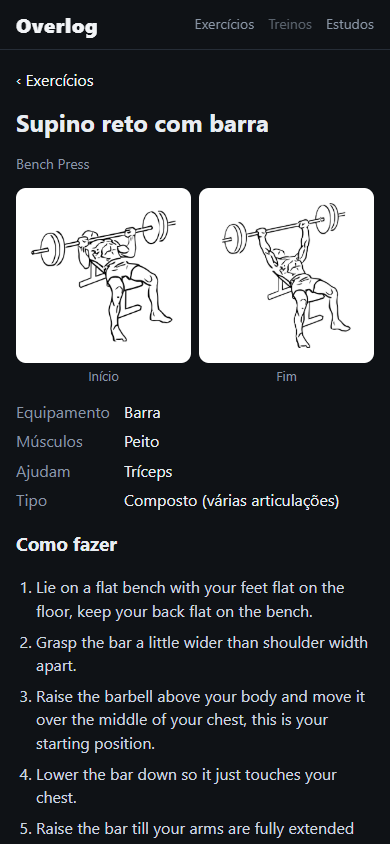
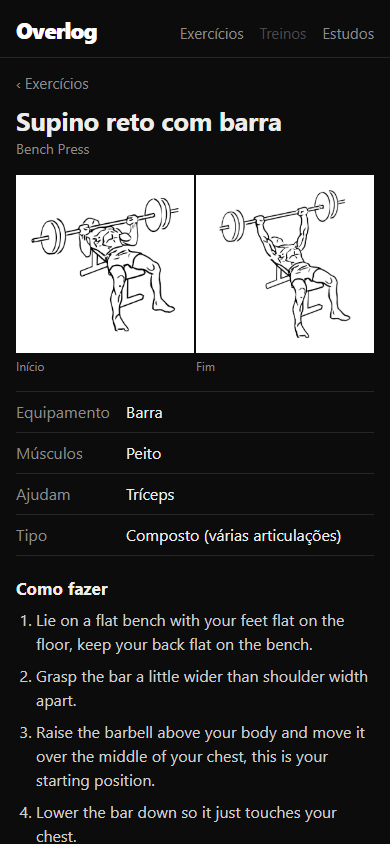
plainer look: lists with lines instead of cards, simpler texts and readme

diff --git a/src/index.css b/src/index.css
@@ -1,11 +1,9 @@
 :root {
-  --bg: #0f1216;
-  --card: #181d24;
-  --line: #262d37;
-  --text: #e8edf2;
-  --muted: #8a96a6;
-  --accent: #f2f4f7;
-  --accent-text: #0f1216;
+  --bg: #0c0c0c;
+  --line: #262626;
+  --text: #ededed;
+  --muted: #8c8c8c;
+  --strong: #ffffff;
   color-scheme: dark;
 }
 
@@ -15,81 +13,85 @@ body {
   margin: 0;
   background: var(--bg);
   color: var(--text);
-  font: 16px/1.45 system-ui, -apple-system, "Segoe UI", Roboto, sans-serif;
+  font: 16px/1.5 system-ui, -apple-system, "Segoe UI", Roboto, sans-serif;
   -webkit-tap-highlight-color: transparent;
 }
 
 a { color: inherit; }
 
-main { max-width: 720px; margin: 0 auto; padding: 12px 16px 48px; }
+main { max-width: 680px; margin: 0 auto; padding: 0 16px 40px; }
 
 .top {
   position: sticky; top: 0; z-index: 2;
-  display: flex; align-items: center; justify-content: space-between; gap: 12px;
-  padding: 10px 16px; background: rgba(15, 18, 22, 0.92); backdrop-filter: blur(8px);
-  border-bottom: 1px solid var(--line);
+  display: flex; align-items: baseline; justify-content: space-between; gap: 12px;
+  max-width: 680px; margin: 0 auto; padding: 14px 16px 10px;
+  background: var(--bg); border-bottom: 1px solid var(--line);
 }
-.logo { font-weight: 800; font-size: 20px; text-decoration: none; color: var(--accent); letter-spacing: 0.5px; }
-.top nav { display: flex; gap: 14px; font-size: 14px; }
+.logo { font-weight: 900; font-size: 22px; letter-spacing: -0.8px; text-decoration: none; color: var(--strong); }
+.top nav { display: flex; gap: 16px; font-size: 15px; }
 .top nav a { text-decoration: none; color: var(--muted); }
-.top nav a[aria-current] { color: var(--accent); font-weight: 600; box-shadow: inset 0 -2px 0 var(--accent); }
-.soon { color: var(--muted); opacity: 0.6; }
+.top nav a[aria-current] { color: var(--strong); }
+.soon { color: #4a4a4a; }
 
-.search { display: flex; gap: 8px; margin: 4px 0 10px; }
+.search { display: flex; gap: 8px; margin: 14px 0 6px; }
 .search input, .search select {
-  min-height: 44px; border-radius: 10px; border: 1px solid var(--line);
-  background: var(--card); color: var(--text); font: inherit; padding: 0 12px;
+  min-height: 44px; border: 0; border-bottom: 1px solid var(--line); border-radius: 0;
+  background: transparent; color: var(--text); font: inherit; padding: 0 2px;
 }
+.search input:focus, .search select:focus { border-bottom-color: var(--strong); outline: none; }
 .search input { flex: 1; min-width: 0; }
-.search select { max-width: 42%; }
+.search select { max-width: 42%; color: var(--muted); }
+.search select option { background: var(--bg); color: var(--text); }
 
-.chips { display: flex; gap: 8px; overflow-x: auto; padding-bottom: 6px; scrollbar-width: none; }
+/* equipment filter: plain words, the chosen one is white */
+.chips { display: flex; gap: 18px; overflow-x: auto; padding: 8px 0 10px; scrollbar-width: none; }
 .chip {
-  flex: none; min-height: 36px; padding: 0 14px; border-radius: 999px;
-  border: 1px solid var(--line); background: var(--card); color: var(--text); font: inherit; font-size: 14px;
+  flex: none; padding: 4px 0; border: 0; background: none; color: var(--muted);
+  font: inherit; font-size: 15px; cursor: pointer;
 }
-.chip.on { background: var(--accent); border-color: var(--accent); color: var(--accent-text); font-weight: 600; }
+.chip.on { color: var(--strong); font-weight: 700; }
 
 .muted { color: var(--muted); font-size: 14px; }
+.count { color: var(--muted); font-size: 13px; margin: 6px 0 0; }
 
 .list { list-style: none; margin: 0; padding: 0; }
 .item {
-  display: flex; gap: 12px; align-items: center; padding: 8px; margin-bottom: 8px;
-  background: var(--card); border: 1px solid var(--line); border-radius: 12px; text-decoration: none;
+  display: flex; gap: 14px; align-items: center; padding: 10px 0;
+  border-bottom: 1px solid var(--line); text-decoration: none;
 }
-.item img { width: 72px; height: 72px; object-fit: contain; border-radius: 8px; background: #fff; flex: none; }
+.item img { width: 64px; height: 64px; object-fit: contain; background: #fff; flex: none; }
 .item span { display: flex; flex-direction: column; min-width: 0; }
-.item strong { font-size: 16px; }
-.item small { color: var(--muted); font-size: 13px; }
-.item em { font-style: normal; color: var(--muted); font-size: 13px; margin-top: 2px; }
+.item strong { font-size: 16px; font-weight: 650; }
+.item small, .item em { color: var(--muted); font-size: 13px; font-style: normal; }
 
 .more {
-  width: 100%; min-height: 44px; border-radius: 10px; border: 1px solid var(--line);
-  background: transparent; color: var(--text); font: inherit;
+  width: 100%; min-height: 48px; margin-top: 8px; border: 0; border-bottom: 1px solid var(--line);
+  background: none; color: var(--text); font: inherit; cursor: pointer;
 }
 
-.detail h2 { margin: 8px 0 2px; font-size: 24px; }
-.back { display: inline-block; text-decoration: none; color: var(--accent); padding: 6px 0; }
-.photos { display: grid; grid-template-columns: 1fr 1fr; gap: 8px; margin: 14px 0; }
+.back { display: inline-block; text-decoration: none; color: var(--muted); padding: 14px 0 0; font-size: 15px; }
+.detail h2 { margin: 10px 0 0; font-size: 26px; line-height: 1.2; letter-spacing: -0.4px; }
+.detail .en { color: var(--muted); margin: 2px 0 0; font-size: 14px; }
+.photos { display: grid; grid-template-columns: 1fr 1fr; gap: 2px; margin: 16px 0; }
 .photos figure { margin: 0; }
-.photos img { width: 100%; aspect-ratio: 1; object-fit: contain; padding: 8px; border-radius: 10px; background: #fff; display: block; }
-.photos figcaption { color: var(--muted); font-size: 13px; text-align: center; margin-top: 4px; }
-.facts { display: grid; grid-template-columns: auto 1fr; gap: 6px 14px; margin: 0 0 16px; }
+.photos img { width: 100%; aspect-ratio: 1; object-fit: contain; padding: 8px; background: #fff; display: block; }
+.photos figcaption { color: var(--muted); font-size: 12px; margin-top: 4px; }
+.facts { display: grid; grid-template-columns: 110px 1fr; margin: 0 0 20px; border-top: 1px solid var(--line); }
+.facts dt, .facts dd { margin: 0; padding: 8px 0; border-bottom: 1px solid var(--line); }
 .facts dt { color: var(--muted); }
-.facts dd { margin: 0; }
-.steps { padding-left: 20px; color: #cfd7e0; }
+.detail h3 { font-size: 17px; margin: 0 0 6px; }
+.steps { padding-left: 20px; color: #cfcfcf; margin: 0; }
 .steps li { margin-bottom: 8px; }
 
-.studies h2 { margin: 8px 0 6px; font-size: 24px; }
-.studies h3 { margin: 22px 0 8px; font-size: 13px; color: var(--muted); text-transform: uppercase; letter-spacing: 0.6px; }
-.intro { margin: 0 0 8px; }
-.small { font-size: 13px; }
-.study { background: var(--card); border: 1px solid var(--line); border-radius: 12px; padding: 14px; margin-bottom: 10px; }
-.study p { margin: 0 0 8px; }
-.takeaway { font-weight: 700; }
+.studies h2 { margin: 18px 0 4px; font-size: 26px; letter-spacing: -0.4px; }
+.studies h3 { margin: 28px 0 0; font-size: 17px; }
+.intro { margin: 0 0 6px; color: #cfcfcf; }
+.study { padding: 14px 0; border-bottom: 1px solid var(--line); }
+.study p { margin: 0 0 6px; }
+.takeaway { font-weight: 650; color: var(--strong); }
 .cite { color: var(--muted); font-size: 13px; }
-.read { color: var(--accent); text-underline-offset: 3px; font-weight: 600; font-size: 14px; }
+.read { color: var(--text); font-size: 14px; text-underline-offset: 3px; }
 
-.credits { text-align: center; color: var(--muted); font-size: 12px; padding: 0 16px 32px; }
+.credits { max-width: 680px; margin: 0 auto; color: var(--muted); font-size: 12px; padding: 0 16px 32px; }
 
-:focus-visible { outline: 2px solid var(--accent); outline-offset: 2px; }
+:focus-visible { outline: 2px solid var(--strong); outline-offset: 2px; }

diff --git a/src/data/studies.ts b/src/data/studies.ts
@@ -26,9 +26,9 @@ export const STUDIES: Study[] = [
   },
   {
     topic: 'Proximidade da falha',
-    takeaway: 'Chegar perto da falha importa; ir até ela em toda série não é obrigatório.',
+    takeaway: 'Não precisa ir até a falha em toda série, mas tem que chegar perto.',
     summary:
-      'Revisão com meta-análise comparando treinar até a falha com parar um pouco antes. Com o volume igual, os ganhos de massa foram parecidos, o que sugere que deixar 1 ou 2 repetições na reserva já entrega quase tudo.',
+      'Revisão com meta-análise comparando treinar até a falha com parar um pouco antes. Com o volume igual, os ganhos de massa foram parecidos, então deixar 1 ou 2 repetições na reserva já resolve.',
     authors: 'Refalo et al.',
     year: 2022,
     title: 'Influence of Resistance Training Proximity-to-Failure on Skeletal Muscle Hypertrophy: A Systematic Review with Meta-analysis',
@@ -37,9 +37,9 @@ export const STUDIES: Study[] = [
   },
   {
     topic: 'Progressão',
-    takeaway: 'Subir a carga ou subir as repetições: os dois funcionam.',
+    takeaway: 'Subir a carga ou subir as repetições deu o mesmo resultado.',
     summary:
-      'Um grupo progrediu aumentando a carga e o outro aumentando as repetições com a mesma carga, por 8 semanas. A hipertrofia foi parecida nos dois. A progressão pode vir de mais peso ou de mais repetições, desde que exista.',
+      'Um grupo progrediu aumentando a carga e o outro aumentando as repetições com a mesma carga, por 8 semanas. A hipertrofia foi parecida nos dois. Dá pra progredir tanto com mais peso quanto com mais repetições.',
     authors: 'Plotkin et al.',
     year: 2022,
     title: 'Progressive overload without progressing load? The effects of load or repetition progression on muscular adaptations',
@@ -48,7 +48,7 @@ export const STUDIES: Study[] = [
   },
   {
     topic: 'Carga e repetições',
-    takeaway: 'Carga leve ou pesada gera hipertrofia parecida, se a série for perto da falha.',
+    takeaway: 'Carga leve ou pesada dá hipertrofia parecida, se a série for perto da falha.',
     summary:
       'Meta-análise comparando treinos com cargas baixas (mais repetições) e altas (menos repetições). O crescimento muscular foi parecido entre eles; a força máxima foi maior com cargas altas.',
     authors: 'Schoenfeld et al.',
@@ -59,7 +59,7 @@ export const STUDIES: Study[] = [
   },
   {
     topic: 'Volume',
-    takeaway: 'Mais séries por semana tendem a dar mais resultado, até certo ponto.',
+    takeaway: 'Mais séries por semana costumam dar mais resultado.',
     summary:
       'Meta-análise sobre o número de séries por músculo por semana. Houve uma relação de dose e resposta: cada série a mais esteve ligada a um ganho um pouco maior, e 10 ou mais séries semanais superaram menos de 5.',
     authors: 'Schoenfeld et al.',
@@ -72,7 +72,7 @@ export const STUDIES: Study[] = [
     topic: 'Frequência',
     takeaway: 'Com o mesmo volume, treinar o músculo 1 ou 3 vezes por semana dá resultado parecido.',
     summary:
-      'Revisão sobre quantas vezes por semana treinar cada músculo. Quando o volume total era igual, a frequência não fez diferença relevante. Ela serve para dividir o volume em sessões que você consegue fazer bem.',
+      'Revisão sobre quantas vezes por semana treinar cada músculo. Quando o volume total era igual, a frequência não fez diferença relevante. Ela serve mais pra dividir as séries da semana de um jeito que dê pra fazer bem.',
     authors: 'Schoenfeld et al.',
     year: 2018,
     title: 'How many times per week should a muscle be trained to maximize muscle hypertrophy? A systematic review and meta-analysis of studies examining the effects of resistance training frequency',
@@ -103,9 +103,9 @@ export const STUDIES: Study[] = [
   },
   {
     topic: 'Músculo alongado',
-    takeaway: 'Exercícios que trabalham o músculo esticado tendem a dar mais hipertrofia.',
+    takeaway: 'Treinar o músculo na posição esticada deu mais hipertrofia.',
     summary:
-      'Comparou a flexora sentada (posterior de coxa mais alongado) com a flexora deitada. A sentada gerou mais crescimento do posterior de coxa, um dos estudos que levaram à ideia de priorizar o músculo em posição alongada.',
+      'Comparou a flexora sentada (posterior de coxa mais alongado) com a flexora deitada. A sentada fez o posterior de coxa crescer mais.',
     authors: 'Maeo et al.',
     year: 2020,
     title: 'Greater Hamstrings Muscle Hypertrophy but Similar Damage Protection after Training at Long versus Short Muscle Lengths',
@@ -114,7 +114,7 @@ export const STUDIES: Study[] = [
   },
   {
     topic: 'Músculo alongado',
-    takeaway: 'Repetições parciais na parte esticada do movimento funcionaram tão bem quanto completas.',
+    takeaway: 'Meia repetição na parte esticada funcionou tão bem quanto a repetição completa.',
     summary:
       'Na cadeira extensora, fazer só a metade do movimento em que o quadríceps está alongado gerou ganhos iguais ou melhores que a amplitude completa, e melhores que parciais na parte encurtada.',
     authors: 'Pedrosa et al.',

diff --git a/src/components/Studies.tsx b/src/components/Studies.tsx
@@ -8,12 +8,10 @@ export function Studies() {
     <section className="studies">
       <h2>Estudos</h2>
       <p className="intro">
-        O que faz o músculo crescer não é segredo de academia: está em pesquisa publicada. Aqui ficam os
-        estudos por trás do app, resumidos em português, com o link para o original. Vale ler.
+        Os estudos que eu uso de base pro app, resumidos. Cada um tem o link pro artigo, se quiser ler inteiro.
       </p>
-      <p className="muted small">
-        <strong>Meta-análise</strong> junta os resultados de vários estudos sobre o mesmo tema, por isso pesa mais que
-        um estudo sozinho. Os resumos simplificam: a conclusão completa está no artigo.
+      <p className="muted">
+        Meta-análise é quando juntam vários estudos sobre o mesmo assunto e analisam tudo junto.
       </p>
 
       {topics.map((topic) => (
@@ -27,7 +25,7 @@ export function Studies() {
                 {s.authors} ({s.year}). <em>{s.title}</em>. {s.journal}.
               </p>
               <a className="read" href={`https://doi.org/${s.doi}`} target="_blank" rel="noopener noreferrer">
-                Ler o estudo ↗
+                Abrir o artigo
               </a>
             </article>
           ))}

diff --git a/src/components/Library.tsx b/src/components/Library.tsx
@@ -23,7 +23,7 @@ export function Library({ filters, onFilters }: { filters: Filters; onFilters: (
       <div className="search">
         <input
           type="search"
-          placeholder="Buscar: supino, rosca, leg press…"
+          placeholder="Buscar exercício"
           value={filters.text}
           onChange={(e) => set({ text: e.target.value })}
           aria-label="Buscar exercício"
@@ -58,7 +58,7 @@ export function Library({ filters, onFilters }: { filters: Filters; onFilters: (
         <p className="muted">Carregando exercícios…</p>
       ) : (
         <>
-          <p className="muted">{results.length} exercícios</p>
+          <p className="count">{results.length} exercícios</p>
           <ul className="list">
             {results.slice(0, shown).map((e) => (
               <li key={e.id}>

diff --git a/src/components/ExerciseDetail.tsx b/src/components/ExerciseDetail.tsx
@@ -18,7 +18,7 @@ export function ExerciseDetail({ id }: { id: string }) {
     <article className="detail">
       <a className="back" href="#/">‹ Exercícios</a>
       <h2>{displayName(exercise)}</h2>
-      {exercise.pt && <p className="muted">{exercise.en}</p>}
+      {exercise.pt && <p className="en">{exercise.en}</p>}
 
       {/* the two drawings are the start and the end of the movement */}
       <div className="photos">

diff --git a/README.md b/README.md
@@ -2,43 +2,36 @@
 
 [![Tests and deploy](https://github.com/ViniciuscLemos/overlog/actions/workflows/deploy.yml/badge.svg)](https://github.com/ViniciuscLemos/overlog/actions/workflows/deploy.yml)
 
-A gym log built around the two things that make muscle grow: training close to failure and putting more weight on the bar over time. The name is *progressive overload* + *log*.
+A gym log I'm making for myself. The name comes from progressive overload + log.
 
-**Live:** https://viniciusclemos.github.io/overlog/ (on the phone, "Add to Home Screen" installs it)
+Live at https://viniciusclemos.github.io/overlog/ (on the phone, "Add to Home Screen" installs it and it works offline).
 
 <p>
-  <img src="docs/library.png" alt="The exercise list with search, equipment filters and a drawing of each exercise" width="300">
-  <img src="docs/exercise.png" alt="The bench press page: drawings of the start and end of the movement, muscles and steps" width="300">
+  <img src="docs/library.png" alt="The exercise list with search, equipment filter and a drawing of each exercise" width="300">
+  <img src="docs/exercise.png" alt="The bench press page with drawings of the start and end of the movement" width="300">
 </p>
 
-## Why I'm building it
+## Why
 
-I train and I log my sets, and I wanted an app that does exactly what I use, in Portuguese, with no account and no ads. Apps like Hevy and Strong set the bar for how fast logging should feel, so that's the reference.
+I lift and I write down every set. The apps I tried either lock things behind a subscription (Hevy's free plan only lets you save 4 routines, which doesn't work for an ABCDE split), need internet in the middle of the gym, or are full of points and badges I don't care about.
 
-## What works now
+What actually makes a muscle grow is getting close to failure and adding weight or reps over time, so that's what this app is built around: each set gets weight, reps and how many reps you had left (RIR), and the app shows what you did last time.
 
-- **269 exercises with drawings** of the start and end of each movement (no photos of people, on purpose).
-- **The names people actually use in Brazilian gyms** for the common ones (supino reto, puxada com triângulo, remada cavalinho, cadeira extensora...), with the English name under it.
-- **Search that forgives**: no accents needed, words in any order, Portuguese or English ("supino halteres" or "dumbbell bench").
-- **Filters** by equipment (barbell, dumbbell, cable, machine, Smith...) and muscle.
-- **A Studies tab**: the research behind the app (proximity to failure, progression, volume, frequency, rest, lengthened positions, protein), summarized in Portuguese with a link to each paper. Every DOI was checked against Crossref.
-- **Works offline** as an installable PWA. The gym has bad signal, so every drawing you open stays on the phone.
+## What it does so far
+
+269 exercises, each with a drawing of the start and end of the movement. I didn't want photos of people, and these drawings all have the same style. The common ones have the names we use in Brazilian gyms (supino reto, puxada com triângulo, remada cavalinho...) with the English name under it.
+
+The search ignores accents and word order, so "supino halteres" and "dumbbell bench" both work, and you can filter by equipment and muscle.
+
+There's also a tab with the studies behind the app (proximity to failure, progression, volume, frequency, rest, protein), summed up in Portuguese with a link to each paper. I checked every DOI before adding it.
 
 ## Next
 
-The base first, nothing fancy:
+Workouts (as many as you want), logging a workout with weight, reps and RIR, a suggestion of what to do next time, history and a chart per exercise. After that, rest timer, your own exercises and backup.
 
-1. **Workouts, as many as you want.** Hevy's free plan stops at 4 routines, which rules out an ABCDE split or upper/lower six days a week. Here there's no limit.
-2. **Logging a workout.** Weight, reps and **RIR** (reps in reserve) on every set, with last time's numbers next to it. Proximity to failure and load progression are what drive hypertrophy, so both are first-class fields, not settings buried in a menu.
-3. **A clear next step per exercise:** add weight, or keep it and go for more reps, based on what you did and how close to failure it was.
-4. **History and a chart per exercise** to see the load actually going up.
-5. Rest timer, your own exercises, export/import.
+The exercises that don't have a drawing (wide-grip pulldown, hip thrust...) will come in with a black and white muscle map in the same line style, so the pictures keep looking the same.
 
-**More exercises, same look.** Everkinetic has 269 drawn exercises. The rest of a normal gym (wide-grip pulldown, hip thrust, Bulgarian split squat...) will come in as well, shown with a black-and-white muscle map in the same line style, so every picture in the app looks like it belongs.
-
-No points, badges or streaks: open it, train, write it down.
-
-Everything stays on the phone (IndexedDB), so there's no login for now.
+Everything is saved on the phone (IndexedDB), no account.
 
 ## Running it
 
@@ -48,8 +41,8 @@ npm run dev
 npm test
 ```
 
-The exercise list is built from Everkinetic's data with `npm run import-exercises -- exercises.json png-list.txt` (see the comment at the top of `scripts/import-exercises.mjs`). The Portuguese names are in `scripts/names-pt.json`.
+The exercise list is built from Everkinetic's data by `scripts/import-exercises.mjs` (how to run it is at the top of the file). The Portuguese names are in `scripts/names-pt.json`.
 
 ## Credits
 
-The exercises and drawings come from [Everkinetic](https://github.com/everkinetic/data), under [CC BY-SA 4.0](https://creativecommons.org/licenses/by-sa/4.0/). The drawings are loaded from their repository, and `src/data/exercises.json` (built from their data) stays under that license. The rest of the code is MIT.
+Exercises and drawings by [Everkinetic](https://github.com/everkinetic/data), under [CC BY-SA 4.0](https://creativecommons.org/licenses/by-sa/4.0/). The drawings are loaded from their repository, and `src/data/exercises.json` (made from their data) keeps that license. The rest of the code is MIT.
